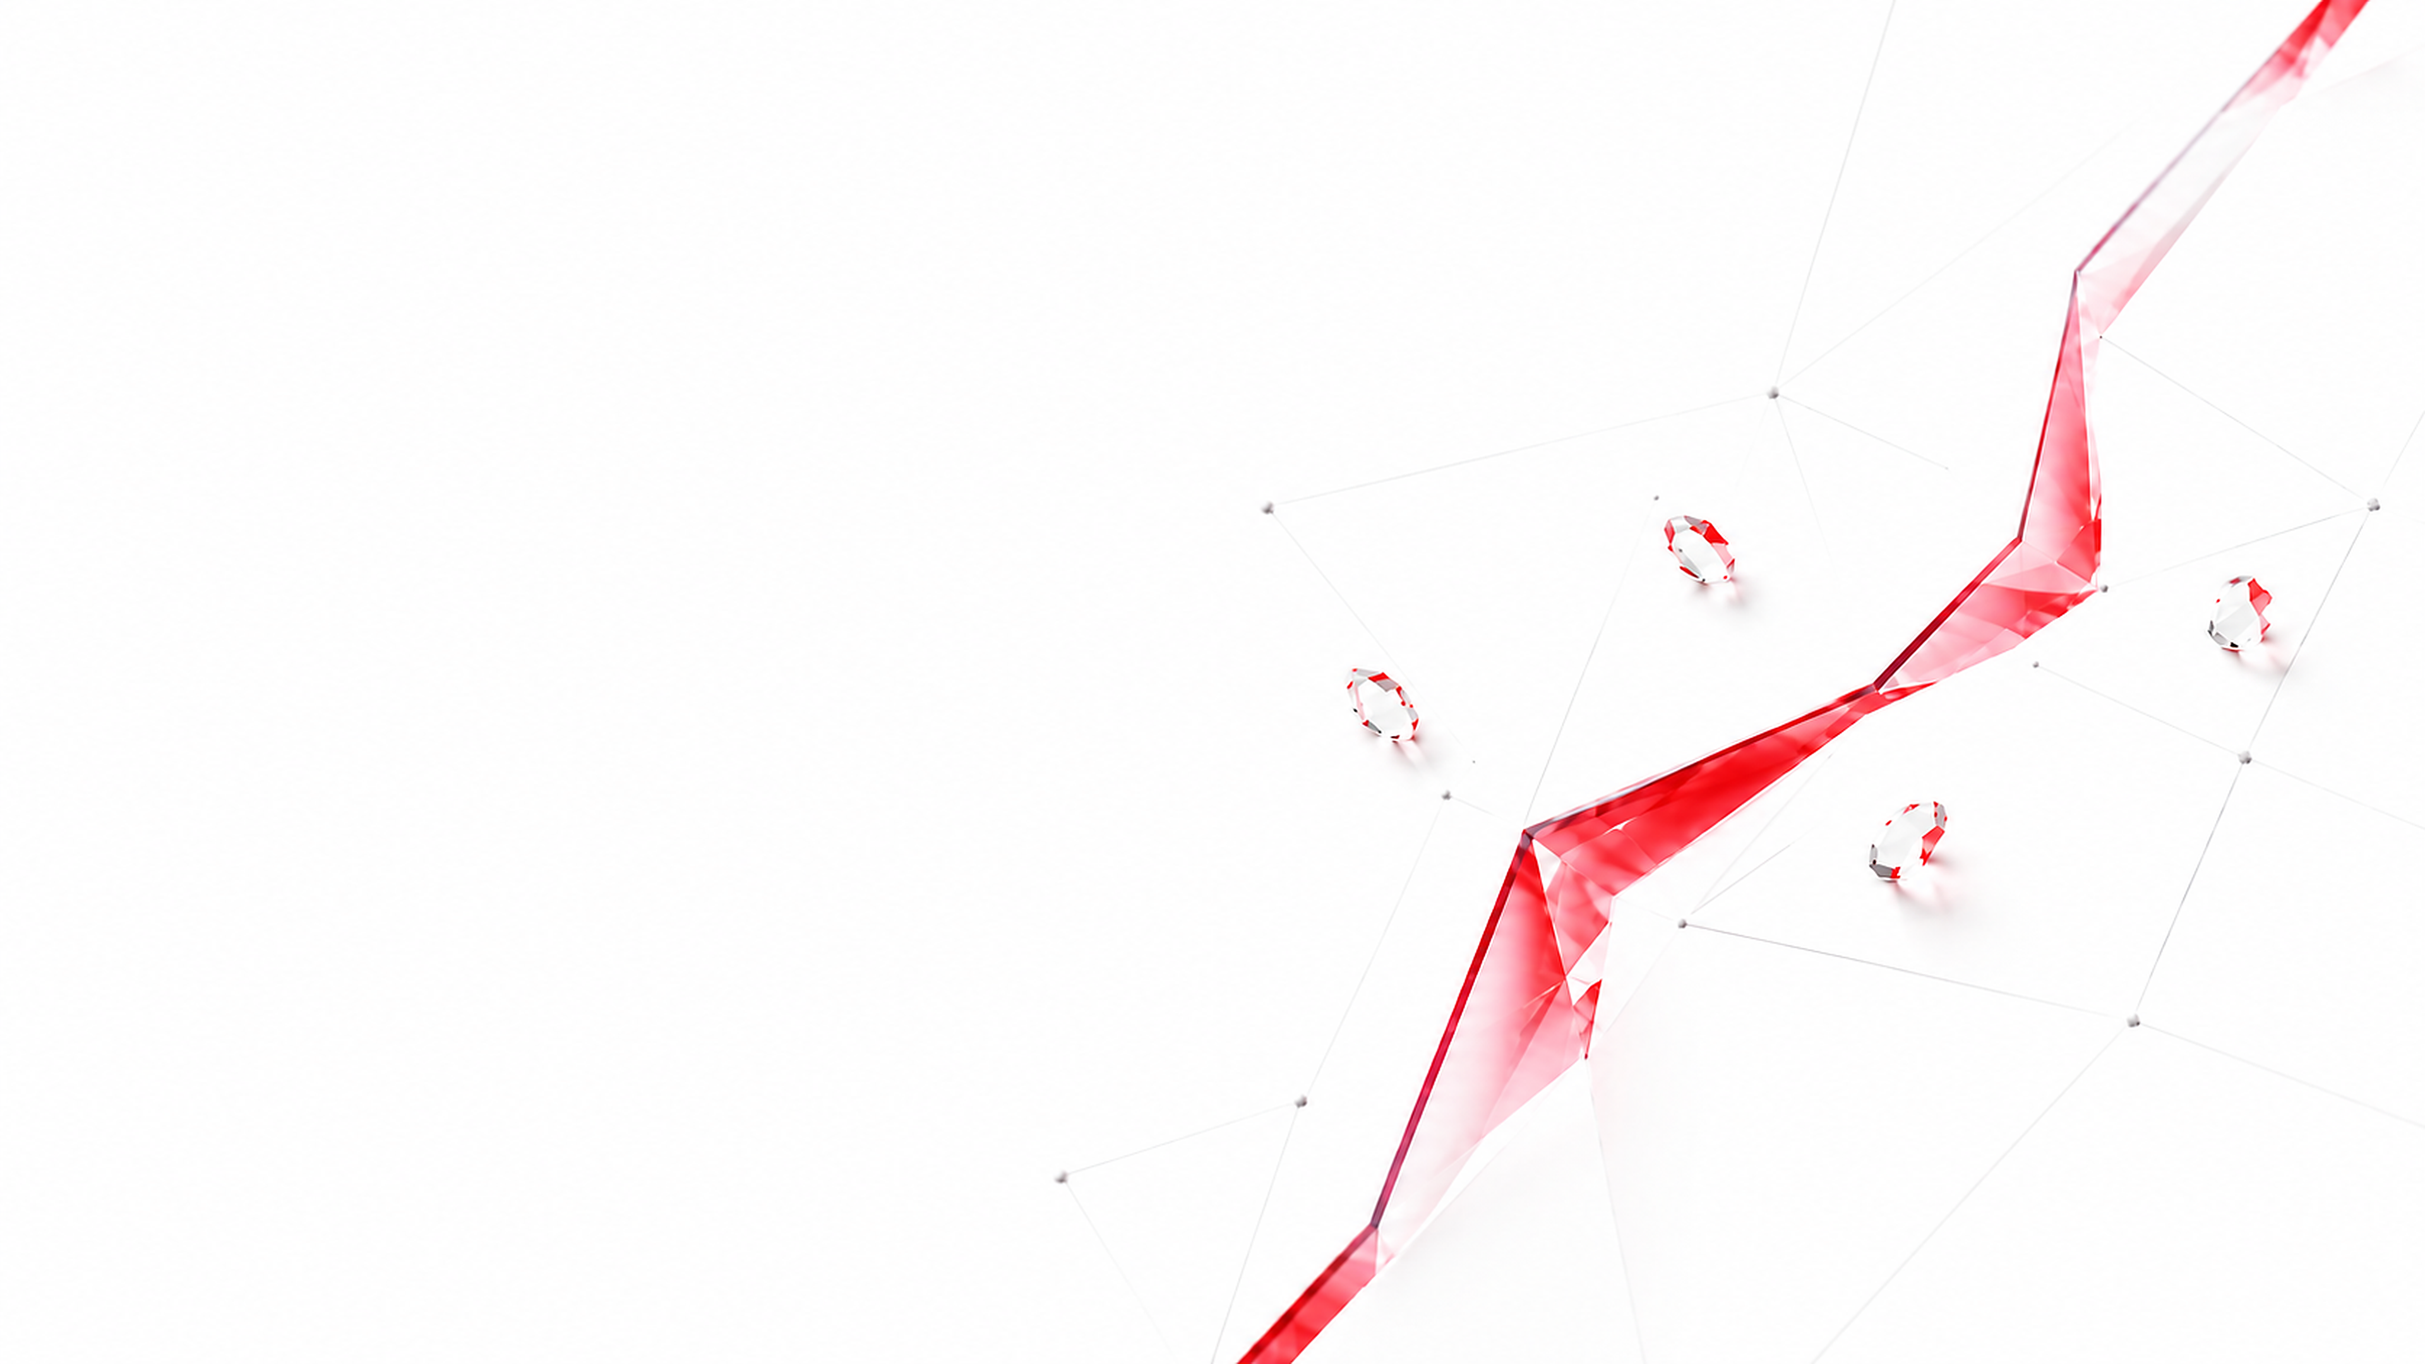
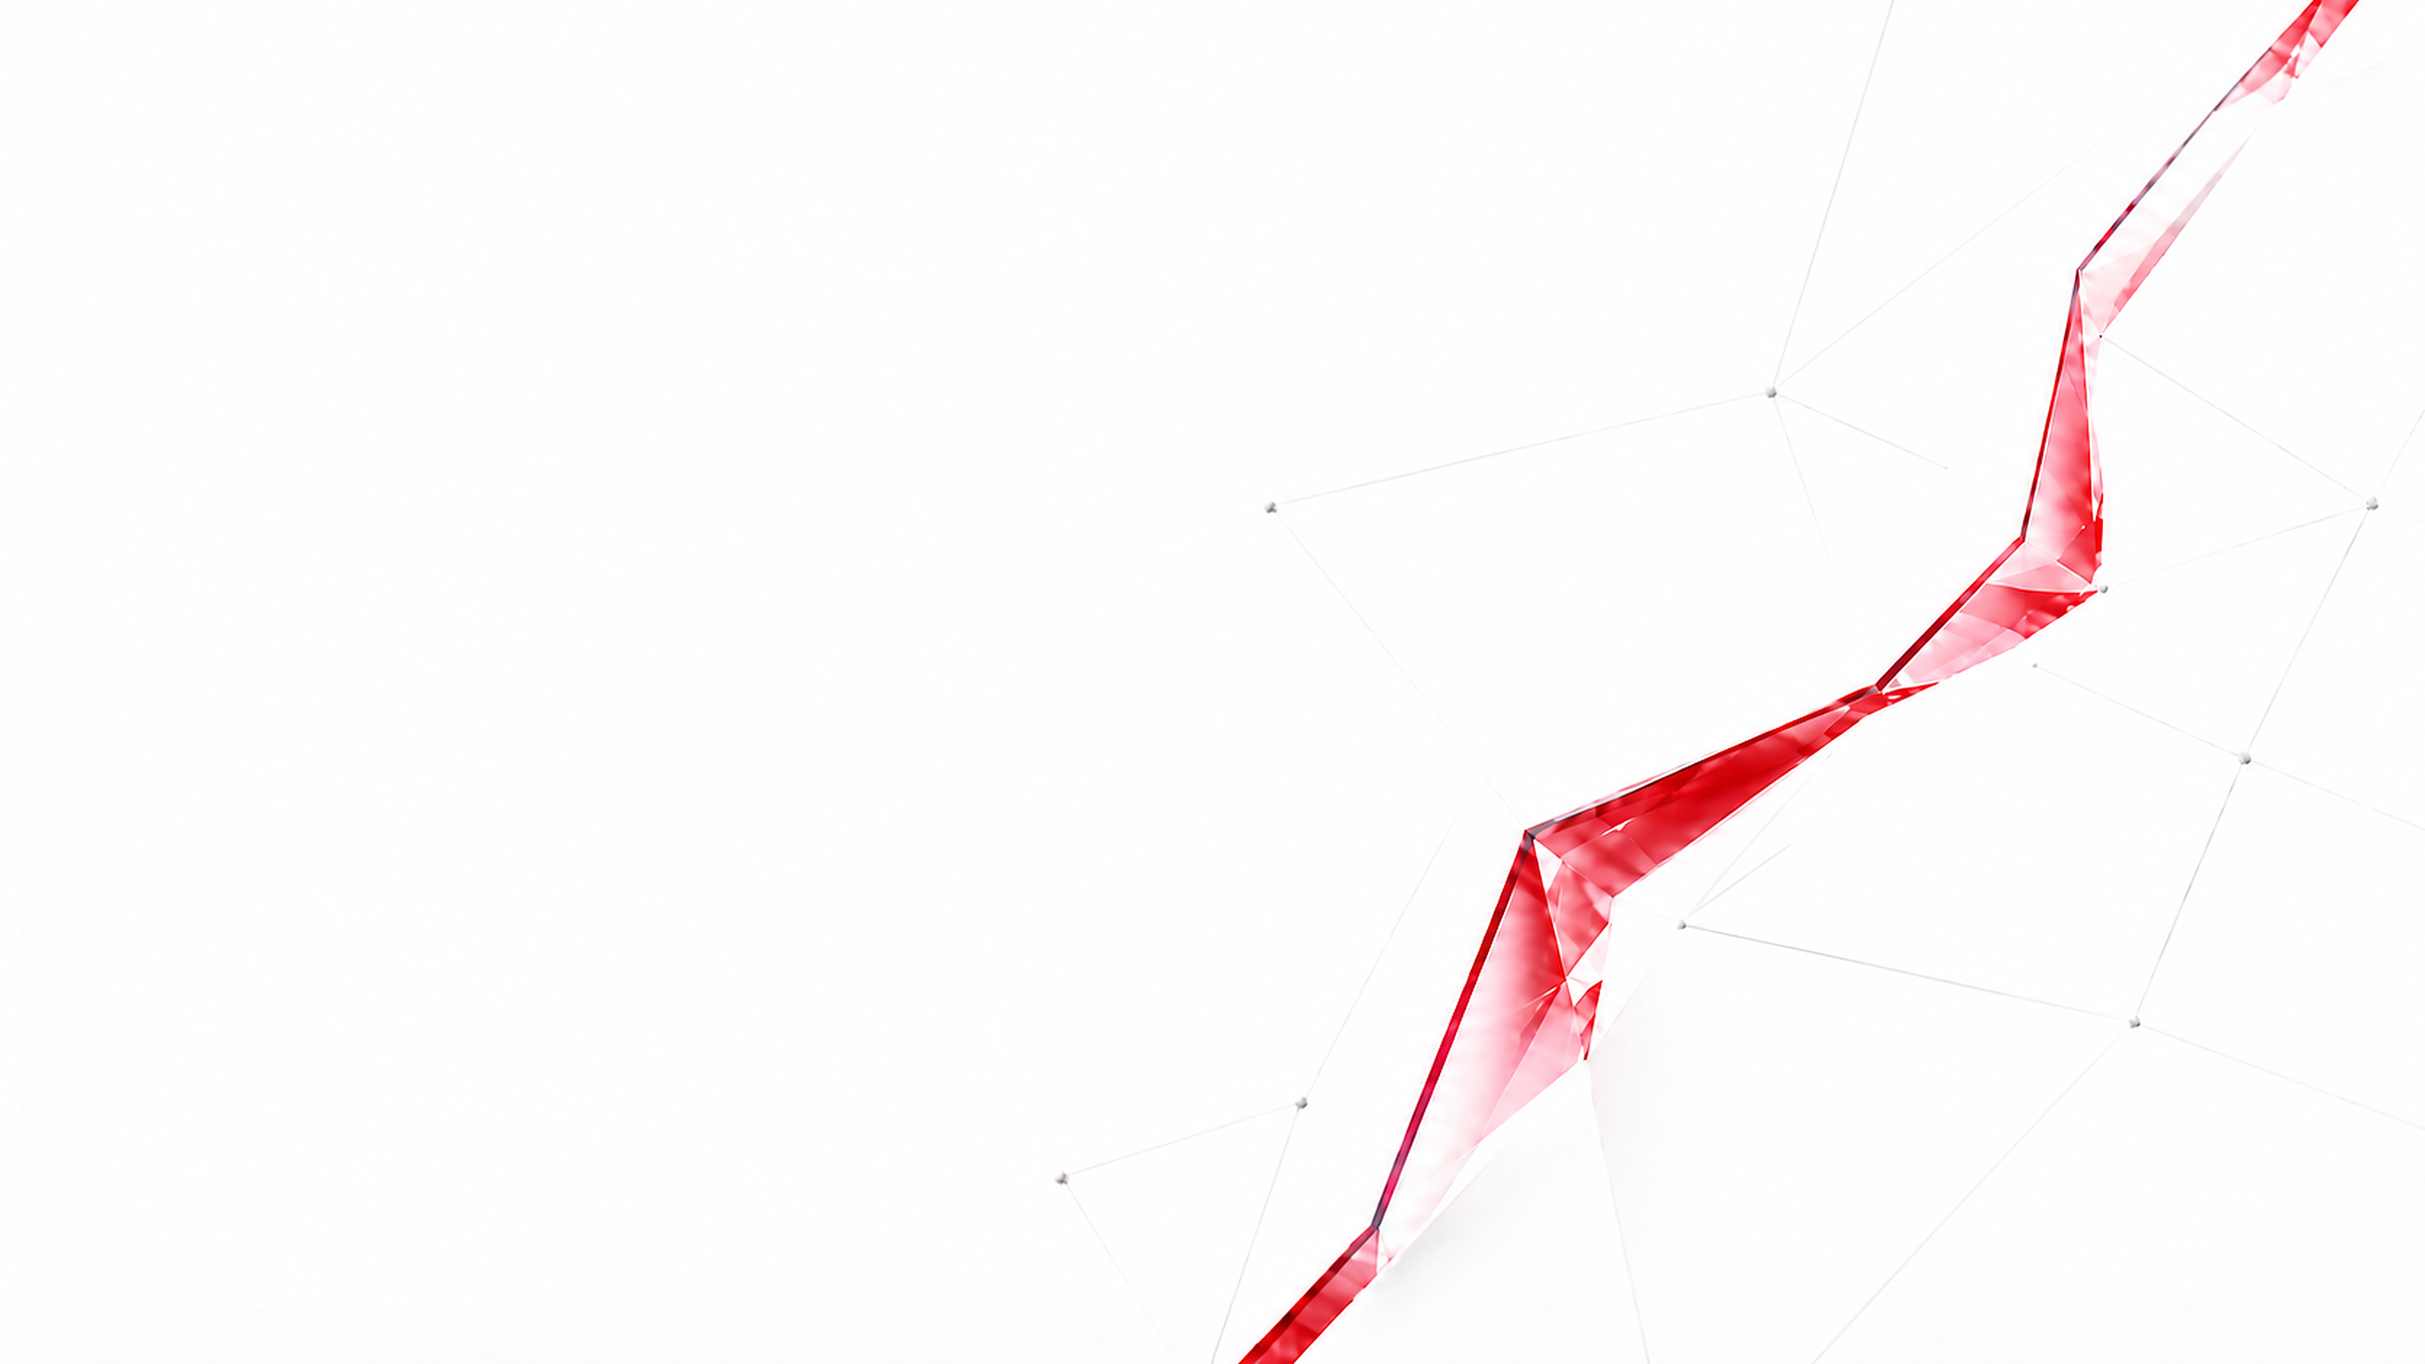
Redesign homepage expertise sections

diff --git a/src/components/sections/home-expertise-overview.tsx b/src/components/sections/home-expertise-overview.tsx
@@ -1,3 +1,4 @@
+import Image from "next/image";
 import { useTranslations } from "next-intl";
 
 import { Container } from "@/components/layout/container";
@@ -13,43 +14,101 @@ const expertiseItems = [
   "electronics",
 ] as const;
 
+type ExpertiseKey = (typeof expertiseItems)[number];
+
+const expertiseCategories: Record<ExpertiseKey, string> = {
+  creativity: "R&D",
+  design: "Engineering",
+  prototyping: "Validation",
+  simulation: "CAD & FEA",
+  polymer: "Materials",
+  electronics: "Embedded systems",
+};
+
+const expertiseIcons: Record<ExpertiseKey, string> = {
+  creativity: "/assets/home-expertise/creativity.png",
+  design: "/assets/home-expertise/design.png",
+  prototyping: "/assets/home-expertise/prototyping.png",
+  simulation: "/assets/home-expertise/simulation.png",
+  polymer: "/assets/home-expertise/polymer.png",
+  electronics: "/assets/home-expertise/electronics.png",
+};
+
 export function ExpertiseOverviewSection() {
   const t = useTranslations("HomeIntro.expertise");
   const expertiseT = useTranslations("ExpertisePage.Services");
+  const title = t("title");
+  const titlePunctuation = title.endsWith("。")
+    ? "。"
+    : title.endsWith(".")
+      ? "."
+      : "";
+  const titleText = titlePunctuation ? title.slice(0, -1) : title;
 
   return (
     <section
       id="capabilities"
-      className="relative scroll-mt-28 bg-background pb-12 pt-20 sm:pb-14 sm:pt-24 lg:pb-16 lg:pt-24"
+      className="relative scroll-mt-28 bg-transparent pb-12 pt-20 sm:pb-14 sm:pt-24 lg:pb-16 lg:pt-20"
       aria-labelledby="capabilities-title"
     >
-      <Container size="wide">
-        <div className="grid gap-9 lg:grid-cols-[minmax(260px,0.62fr)_minmax(0,1.38fr)] lg:gap-14 xl:gap-20">
+      <div
+        className="pointer-events-none absolute inset-0 z-0 hidden overflow-hidden lg:block"
+        aria-hidden
+      >
+        <Image
+          src="/assets/home-expertise/technical-mesh.png"
+          alt=""
+          width={1000}
+          height={667}
+          sizes="(min-width: 1800px) 980px, (min-width: 1280px) 860px, 720px"
+          className="absolute -bottom-10 -left-8 w-[720px] brightness-0 opacity-[0.1] xl:w-[860px] min-[1800px]:w-[980px]"
+        />
+        <Image
+          src="/assets/home-expertise/fracture-continuation.png"
+          alt=""
+          width={1000}
+          height={667}
+          sizes="(min-width: 1800px) 1080px, (min-width: 1280px) 900px, 760px"
+          className="absolute -left-[180px] top-[320px] w-[760px] opacity-[0.82] xl:-left-[220px] xl:w-[900px] min-[1800px]:-left-[260px] min-[1800px]:top-[350px] min-[1800px]:w-[1080px]"
+        />
+      </div>
+
+      <Container
+        size="wide"
+        className="relative z-10 max-w-[1460px] min-[1800px]:max-w-[1520px]"
+      >
+        <div className="grid gap-9 lg:grid-cols-[minmax(260px,0.66fr)_minmax(0,1.34fr)] lg:gap-14 xl:gap-16">
           <Reveal>
-            <div className="max-w-[410px]">
-              <p className="flex items-center gap-3 text-[12px] font-semibold uppercase tracking-[0.11em] text-muted-foreground">
-                <span className="h-0.5 w-8 shrink-0 bg-brand" aria-hidden />
+            <div className="max-w-[370px]">
+              <p className="flex items-center gap-4 text-[13px] font-semibold uppercase tracking-[0.11em] text-brand">
+                <span className="h-0.5 w-9 shrink-0 bg-brand" aria-hidden />
                 {t("eyebrow")}
               </p>
 
               <h2
                 id="capabilities-title"
-                className="mt-3 max-w-[460px] text-balance text-[28px] font-extrabold leading-[1.08] tracking-[-0.025em] text-foreground sm:text-[31px] lg:text-[34px]"
+                className="mt-4 max-w-[410px] text-balance text-[30px] font-extrabold leading-[1.08] tracking-[-0.025em] text-foreground sm:text-[34px] lg:text-[40px] xl:text-[44px]"
               >
-                {t("title")}
+                {titleText}
+                <span className="text-brand">{titlePunctuation}</span>
               </h2>
 
-              <p className="mt-4 max-w-[390px] text-pretty text-[13.5px] font-medium leading-[1.5] text-muted-foreground sm:text-[14px]">
+              <span
+                className="mt-6 block h-0.5 w-8 bg-brand"
+                aria-hidden
+              />
+
+              <p className="mt-6 max-w-[350px] text-pretty text-[14px] font-medium leading-[1.7] text-muted-foreground xl:text-[14.5px]">
                 {t("body")}
               </p>
 
               <Link
                 href="/expertise"
-                className="group mt-5 inline-flex w-fit items-center gap-3 rounded-sm text-[13px] font-bold text-foreground transition-colors duration-300 hover:text-brand focus-visible:outline-none focus-visible:ring-2 focus-visible:ring-brand focus-visible:ring-offset-4"
+                className="group mt-8 inline-flex w-fit items-center gap-7 rounded-sm border-b border-brand pb-2.5 text-[12px] font-bold uppercase tracking-[0.08em] text-brand transition-colors duration-300 hover:text-foreground focus-visible:outline-none focus-visible:ring-2 focus-visible:ring-brand focus-visible:ring-offset-4"
               >
-                <span className="border-b-2 border-brand pb-1">{t("cta")}</span>
+                <span>{t("cta")}</span>
                 <span
-                  className="text-base leading-none text-brand transition-transform duration-300 group-hover:translate-x-1"
+                  className="text-lg leading-none text-brand transition-transform duration-300 group-hover:translate-x-1"
                   aria-hidden
                 >
                   →
@@ -58,33 +117,53 @@ export function ExpertiseOverviewSection() {
             </div>
           </Reveal>
 
-          <div className="grid border-t border-foreground/20 min-[540px]:grid-cols-2">
+          <div className="grid gap-4 min-[560px]:grid-cols-2">
             {expertiseItems.map((item, index) => (
               <Reveal
                 as="article"
                 key={item}
                 delay={index * 0.04}
-                className="group relative border-b border-foreground/15 py-4 min-[540px]:min-h-[104px] min-[540px]:px-5 min-[540px]:even:border-l min-[540px]:odd:pl-0 min-[540px]:even:pr-0"
+                className="min-w-0"
               >
-                <span
-                  className="absolute -top-px left-0 h-px w-0 bg-brand transition-[width] duration-300 ease-out group-hover:w-8 min-[540px]:group-even:left-5"
-                  aria-hidden
-                />
-
-                <div className="grid grid-cols-[24px_minmax(0,1fr)] gap-2.5">
-                  <span className="pt-0.5 text-[10px] font-bold tabular-nums text-brand">
-                    0{index + 1}
+                <Link
+                  href="/expertise"
+                  aria-label={`${t("cta")} — ${expertiseT(`items.${item}.title`)}`}
+                  className="group relative grid min-h-[168px] grid-cols-[50px_minmax(0,1fr)] gap-4 rounded-[7px] border border-border/80 bg-white/95 px-5 py-5 pr-11 transition-[border-color,box-shadow,transform] duration-300 ease-out hover:-translate-y-0.5 hover:border-brand/25 hover:shadow-[0_14px_34px_rgba(17,17,17,0.06)] focus-visible:outline-none focus-visible:ring-2 focus-visible:ring-brand focus-visible:ring-offset-4 sm:min-h-[178px] sm:grid-cols-[54px_minmax(0,1fr)] sm:gap-5 sm:px-6 sm:py-6 sm:pr-12 xl:min-h-[205px] xl:grid-cols-[56px_minmax(0,1fr)] xl:px-6 xl:py-6 xl:pr-12"
+                >
+                  <span className="flex size-[50px] items-center justify-center rounded-full bg-brand/[0.07] sm:size-[54px] xl:size-14">
+                    <Image
+                      src={expertiseIcons[item]}
+                      alt=""
+                      width={38}
+                      height={38}
+                      className="size-[34px] object-contain sm:size-[38px] xl:size-10"
+                    />
                   </span>
 
-                  <div>
-                    <h3 className="text-[15px] font-extrabold leading-[1.2] tracking-[-0.01em] text-foreground transition-colors duration-300 group-hover:text-brand sm:text-[16px]">
+                  <span className="min-w-0">
+                    <span className="flex items-center gap-2.5 text-[10px] font-semibold uppercase italic tracking-[0.14em] text-brand">
+                      <span
+                        className="size-1.5 shrink-0 rounded-full bg-brand"
+                        aria-hidden
+                      />
+                      {expertiseCategories[item]}
+                    </span>
+
+                    <span className="mt-3 block text-[16px] font-extrabold leading-[1.2] tracking-[-0.01em] text-foreground transition-colors duration-300 group-hover:text-brand sm:text-[17px] xl:text-[18px]">
                       {expertiseT(`items.${item}.title`)}
-                    </h3>
-                    <p className="mt-1.5 max-w-[22rem] text-pretty text-[12.5px] font-medium leading-[1.4] text-muted-foreground">
+                    </span>
+                    <span className="mt-2.5 block max-w-[24rem] text-pretty text-[12.5px] font-medium leading-[1.5] text-muted-foreground xl:mt-3 xl:text-[13.5px] xl:leading-[1.55]">
                       {t(`items.${item}.body`)}
-                    </p>
-                  </div>
-                </div>
+                    </span>
+                  </span>
+
+                  <span
+                    className="absolute bottom-4 right-5 text-xl leading-none text-brand transition-transform duration-300 group-hover:translate-x-1 sm:bottom-5 xl:right-6"
+                    aria-hidden
+                  >
+                    →
+                  </span>
+                </Link>
               </Reveal>
             ))}
           </div>

diff --git a/src/components/sections/home-introduction-sections.tsx b/src/components/sections/home-introduction-sections.tsx
@@ -7,10 +7,10 @@ import { ExpertiseOverviewSection } from "@/components/sections/home-expertise-o
 
 export function HomeIntroductionSections() {
   return (
-    <>
+    <div className="relative isolate overflow-hidden bg-background">
       <BreakthroughSection />
       <ExpertiseOverviewSection />
-    </>
+    </div>
   );
 }
 
@@ -20,11 +20,11 @@ function BreakthroughSection() {
   return (
     <section
       id="breakthrough"
-      className="relative isolate flex min-h-[390px] items-center overflow-hidden border-t border-border/60 bg-background py-12 sm:min-h-[360px] sm:py-14 lg:min-h-[380px] lg:py-16"
+      className="relative isolate flex min-h-[420px] items-center overflow-visible border-t border-border/60 bg-background py-12 sm:min-h-[400px] sm:py-14 lg:min-h-[430px] lg:py-16"
       aria-labelledby="breakthrough-title"
     >
       <div
-        className="pointer-events-none absolute inset-0 overflow-hidden"
+        className="pointer-events-none absolute inset-x-0 bottom-0 top-0 overflow-hidden lg:-bottom-20"
         aria-hidden
       >
         <Image

diff --git a/DESIGN.md b/DESIGN.md
@@ -61,7 +61,7 @@ Ordre de la homepage:
 1. Navbar fixed glass.
 2. Hero avec dessin technique haut, flèches rouges, titre et un CTA de contact.
 3. Manifeste `Breakthrough innovation`: une fracture rouge traverse un plan blanc facetté.
-4. Vue d'ensemble de l'expertise: narration idée → série et six domaines d'intervention dans une liste éditoriale compacte.
+4. Vue d'ensemble de l'expertise: réponse directe à « ce que nous faisons » et six domaines d'intervention dans une liste éditoriale compacte.
 5. Projets avec carousel shadcn/Embla, cartes compactes autour de 274 x 286, image sur fond gris.
 6. Expertise triptyque: `The idea`, panneau rouge `The process`, `The product` avec stats.
 7. `Trusted by`, ruban de logos en scroll horizontal infini.
@@ -73,9 +73,10 @@ Ordre de la homepage:
 
 - Les deux sections placées entre le hero et les projets doivent répondre successivement à « pourquoi DOMTEKNIKA ? » puis « que fait DOMTEKNIKA ? ».
 - `Breakthrough innovation` reste un manifeste aéré, pas une liste de services. Le visuel `breakthrough-fracture.png` ménage une zone blanche calme pour le texte et concentre la fracture rouge ainsi que les facettes cristallines à droite. Il est utilisé comme composition pleine largeur sur desktop, sans WebGL, shader ni animation décorative.
-- Le visuel occupe la largeur de la section derrière le contenu avec un fondu blanc à gauche sur tous les écrans. Sur mobile, il est recadré à droite plutôt que répété sous le texte afin de conserver un bandeau court.
+- Le visuel occupe la largeur de la section derrière le contenu avec un fondu blanc à gauche sur tous les écrans. Sur desktop, la fracture déborde légèrement du manifeste dans l'espace supérieur de la section Expertise et rejoint visuellement la première catégorie; les contenus et surfaces de catégories restent au-dessus. Sur mobile, il est recadré à droite et ne déborde pas afin de conserver un bandeau court.
+- La section Expertise prolonge ce raccord avec les assets transparents `fracture-continuation.png` et `technical-mesh.png` dans sa colonne gauche. Ils restent décoratifs, derrière le texte et les cartes, et sont masqués sur mobile.
 - La vue d'ensemble de l'expertise synthétise fidèlement les six domaines présentés dans l'onglet Expertise: créativité et innovation, design produit, prototypage, simulation et analyse, polymères et injection, intégration électronique.
-- Sur desktop, le texte principal occupe une colonne compacte à gauche et les domaines forment un index technique en deux colonnes à droite. Chaque domaine reste visible avec une explication courte; l'ensemble ne dépasse pas trois rangées et n'utilise ni grand panneau actif, ni carousel, ni cartes surdimensionnées.
+- Sur desktop, le texte principal occupe une colonne compacte à gauche et les domaines sont présentés dans six cartes en deux colonnes à droite. Chaque carte possède un pictogramme rouge dans un disque très pâle, un point rouge, un libellé technique en italique, le savoir-faire, une explication courte et une flèche discrète. Les cartes sont séparées par de vrais gutters et ne partagent aucun cadre ou séparateur de tableau.
 - Les projets viennent ensuite comme preuve du savoir-faire présenté. Le triptyque placé après eux reste la description détaillée du processus.
 
 ## Rythme Et Marges
